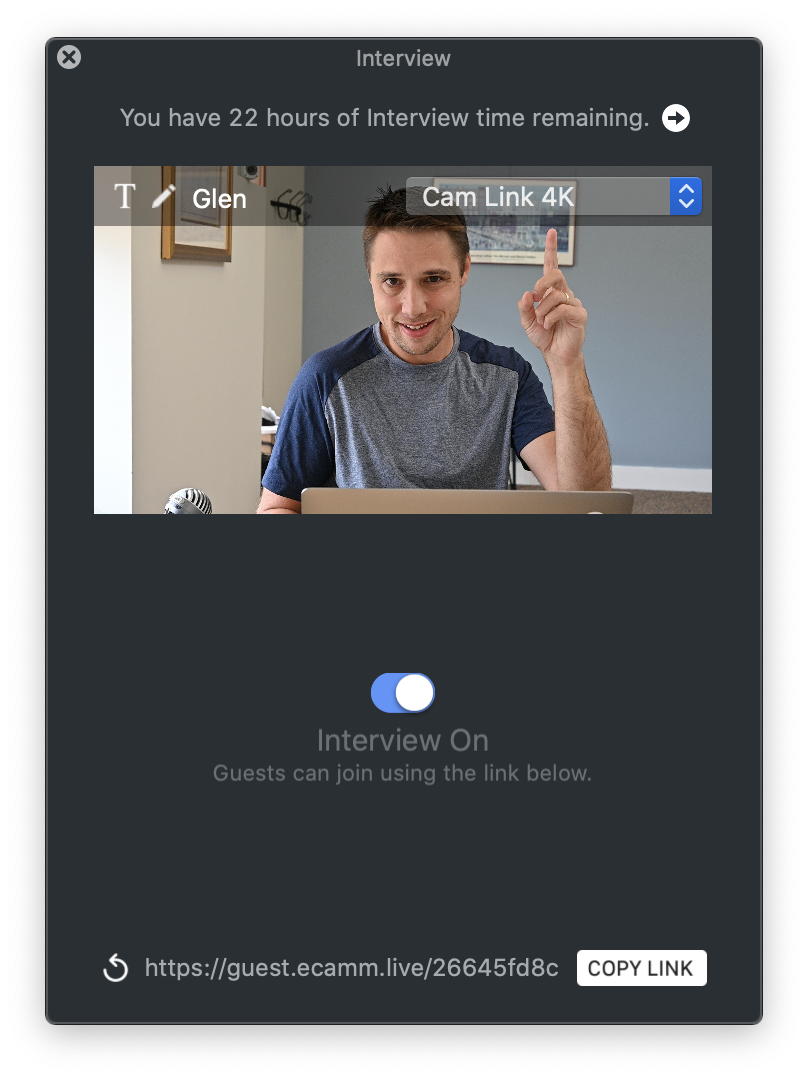
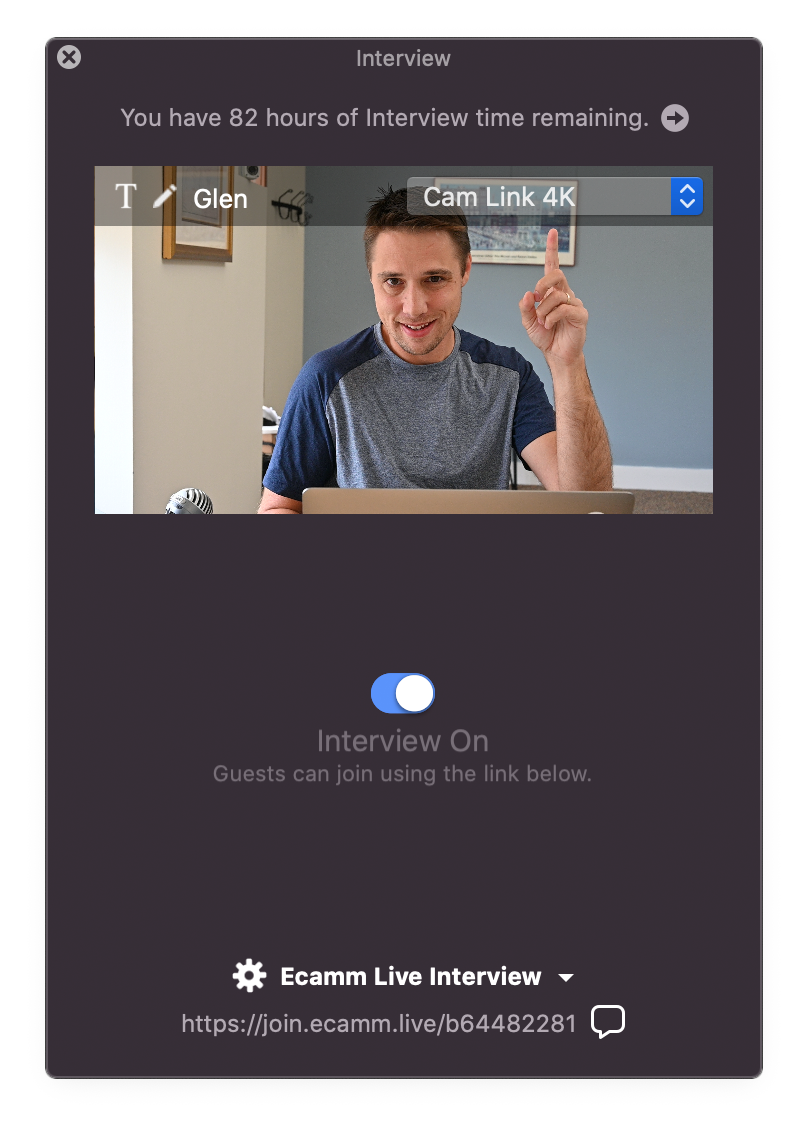
3.9

diff --git a/docs/_ecamm-live-manual/008-interview-mode.md b/docs/_ecamm-live-manual/008-interview-mode.md
@@ -32,27 +32,27 @@ Interviews are controlled using Ecamm Live's Interview window. If you don't see 
 
 If Interview Mode is turned off, turn it on using the blue switch.
 
-### The Host Camera
+#### The Host Camera
 
 At the top of the Interview window, you'll see your host camera. Use the dropdown menu to choose a different camera if needed. If no cameras are listed, ensure that you have the desired camera in Ecamm Live's Camera Switcher. (In the <samp>Camera</samp> menu at the top of the screen, check the <samp>Include in Switcher</samp> sub-menu.)
 
 Your name will be shown at the top of the host camera. To change the name, click the {% inlineicon settings 10 inverted %}pencil icon{% endinlineicon %} button or double-click on your name.
 
-### The Guest Link
+#### The Guest Link
 
-At the bottom of the Interview window, you'll see your invitation link. Send this link to your guests to allow them to join your broadcast. Click the <samp>Copy Link</samp> button to copy the link to your Mac's clipboard. 
+At the bottom of the Interview window, you'll see your invitation link. Send this link to your guests to allow them to join your broadcast. Click the link to copy it to your Mac's clipboard. 
 
-The link is unique to your account and will remain the same unless you change it. To change the link, click the {% inlineicon refresh 15 inverted %}change link{% endinlineicon %} button. This will create a new link code, and the old link will stop working.
+The link is unique to your account and will remain the same unless you change it. The link can be changed in the [Interview Customization window](#customizing-your-interview-page). Once changed, a new link code, and the old link will stop working.
 
 Send your guests this link in advance of your broadcast. Guests will be able to join using this link at any time.
 
 ## Inviting Guests
 
-### Preparing Your Guests
+#### Preparing Your Guests
 
 We recommend having your guests join well in advance for a test call. This will allow you to ensure that the guests have a sufficient computer, web browser, camera, and microphone, and a suitable internet connection.
 
-### When Guests Join
+#### When Guests Join
 
 When guests click your invitation link, their web browser will prompt them to allow the Ecamm website to access their camera and microphone.
 
@@ -71,7 +71,7 @@ Once you have accepted the incoming call, the guest will show up below the host 
 
 Each guest also has a volume level slider, which can be used to adjust the guest's volume as needed.  Guest can also be muted and unmuted by clicking the {% inlineicon speaker3 15 inverted %}speaker{% endinlineicon %} icon just to the left of the volume slider.
 
-### Disconnecting a Guest
+#### Disconnecting a Guest
 
 Disconnect a guest by clicking the {% inlineicon decline 15 %}red X{% endinlineicon %} button.
 
@@ -144,6 +144,77 @@ When Ecamm Live detects that both your microphone and the Interview guest microp
 
 When in this mode, the host can determine if the guest's program audio is automatically lowered, [using a checkbox in the Interview preferences](#lower-music-and-movie-sound-for-guests-when-in-off-air-audio-mode).  
 
+## Guest Private Chat
+
+The Interview host and guests can chat using a text chat interface before and during the a broadcast or recording. Open the Interview Chat window by clicking the chat icon at the bottom of the Interview window. A red dot on the icon indicates that there are unread chat messages.
+
+![Figure\: Interview Chat Window](/assets/img/chatdot.png "Interview Chat Indicator"){:width="414"}
+
+The Interview Chat window shows all sent and received chat messages. To send a message, enter it into the <samp>Send a message...</samp> field at the bottom of the chat window and press return. 
+
+Interview Chat can be enabled or disabled in the [Interview Customization window](#customizing-your-interview-page).
+
+![Figure\: Interview Chat Window](/assets/img/chatwindow.png "Interview Chat Window"){:width="346"}
+
+## Customizing Your Interview Page
+
+The Interview page that your guests will see can be customized. A page title and logo can be added to match you broadcast's brand, and various features can be enabled based on the type of guest interaction desired.
+
+You can create an unlimited number of customized Interview pages, and switch between them as needed. For example, if you produce two different shows, you may wish to have different customizations for each show, such as a different logo. Each Interview page has its own unique guest link.
+
+To add a new customized Interview page, or switch between customized Interview settings, use the popup menu at the bottom of the Interview window.
+
+![Figure\: Interview Menu](/assets/img/interviewmenu.png "The Interview Menu"){:width="419px"}
+
+The currently selected Interview page can be customized by clicking the {% inlineicon interviewgear 15 inverted %}Gear{% endinlineicon %} icon at the bottom of the Interview window.
+
+![Figure\: Customizing Your Interview Page](/assets/img/showgear.png "The Interview Window Gear Button"){:width="426"}
+
+![Figure\: Customizing Your Interview Page](/assets/img/customize.png "The Interview Customization Window"){:width="700px"}
+
+#### Page Title
+
+The Interview Page's title will show up when the link is shared via a messaging app or linked in a social media platform or bookmarked in a web browser.
+
+#### Light Mode Logo and Dark Mode Logo
+
+The logo in the bottom corner of the Interview page can be customized. A light mode and dark mode version of your logo should be provided. If no logo is provided, an Ecamm logo will be used instead. 
+
+#### Open Graph Image
+
+The Interview Page's Open Graph Image will show up when the link is shared via a messaging app or linked in a social media platform. See below for an example of how the Page Title and Open Graph Image will show up when sending the guest link in a chat app such as Facebook Messenger. 
+
+![Figure\: An Interview Link Sent Via Facebook Messenger](/assets/img/messenger.jpg "Link Example"){:width="350px"}
+
+If no custom Open Graph Image is provided, a default Ecamm Interview image will be used instead. 
+
+#### Guest Link Domain
+
+Choose from 14 domain names for your Interview link.
+
+#### Default To Dark Mode
+
+Guests have the ability to choose a light mode or dark mode appearance. The checkbox will determine the default value for new guests.
+
+#### Allow Private Chat
+
+You may wish to enable or disable the text chat sidebar.
+
+#### Show Viewer Comments
+
+Live viewer comments are shown to the guests during a live broadcast to Facebook, YouTube, Restream, or Twitch. You may wish to show or hide the live comments sidebar.
+
+#### Show Viewer Count
+
+The total concurrent viewer count is shown to the guests during a live broadcast. You may wish to show or hide this.
+
+#### Turn Off Audio Processing for Guests
+
+Check this checkbox if your guests will be playing music. The guest microphone will have audio processing disabled, use higher bitrate, and a stereo option will be offered in the guest's audio settings. 
+
+Note that since the guest's echo cancellation will be disabled, headphones must be used on the guest side. 
+Chrome browser and a desktop computer is required for this feature.
+
 ## Interview Preferences
 
 Ecamm Live's preferences window has several options for Interview mode.
@@ -161,21 +232,6 @@ When a guest joins, this will bypass the need to click the answer/decline button
 #### Send Guest To Greenroom
 
 By default, guests will be in a greenroom upon joining. (Their audio will not be in the broadcast.) Uncheck this checkbox to bypass the greenroom.
-
-#### Turn Off Audio Processing for Guests
-
-Check this checkbox if your guests will be playing music. The guest microphone will have audio processing disabled, use higher bitrate, and a stereo option will be offered in the guest's audio settings. 
-
-Note that since the guest's echo cancellation will be disabled, headphones must be used on the guest side. 
-Chrome browser and a desktop computer is required for this feature.
-
-#### Guest Web Interface Defaults To Dark Mode
-
-Guests have the ability to choose a light mode or dark mode appearance. The checkbox will determine the default value for new guests.
-
-#### Guest Web Interface Displays Comments & Viewer Count
-
-Guests can view the broadcasts viewer count and comment feed on the right-hand side of the screen. Uncheck this checkbox to hide this tab from guests.
 
 #### Lower Music and Movie Sound For Guests When in Off-Air Audio Mode
 

diff --git a/docs/_ecamm-live-manual/003-camera-mode.md b/docs/_ecamm-live-manual/003-camera-mode.md
@@ -32,13 +32,21 @@ Other HDMI encoders, such as the [Elgato Cam Link](https://amzn.to/2WYElej) typi
 
 Ecamm Live will automatically detect [Newtek NDI®](https://www.newtek.com/ndi/) input sources, such as the [NDICam iOS app](http://www.sienna-tv.com/ndi/ndicam.html). NDI sources will show up as camera in Ecamm Live's camera list, and as a microphone in Ecamm Live's microphone list.
 
-#### EpocCam Camera for iPhone and iPad
+#### RTSP Cameras (Also called Network Cameras or IP Cameras)
 
-Customers also use the third-party iOS app, _EpocCam_ by [Kinoni](http://www.kinoni.com/) to use their iOS device as a camera.
+Network cameras supporting H.264 and H.265 video encoding can be added to Ecamm Live by picking <samp>Manage Network Cameras</samp> from the <samp>Camera</samp> menu at the top of the screen. Click the + button to add a new network camera. Enter a display name for the camera and the camera's RTSP URL. If a username and password is required, include that in the URL, using this format:
+
+rtsp://user:password@address:port/path
+
+![Figure\: Adding a Network Camera](/assets/img/sanctuary.png "Adding a Network Camera"){:width="657"}
+
+The <samp>Test Camera</samp> button can be used to test the connection to the camera. 
+
+Note that network camera audio is not supported.
 
 #### Broadcasting Your iOS Device's Screen
 
-Your iPhone or iPad screen can also become a video source, simply by connecting the device via USB cable. Ensure that the device is trusted by the Mac, and that iTunes recognizes the device. It will then automatically show up as a video source and audio source in Ecamm Live.
+Your iPhone or iPad screen can also become a video source, simply by connecting the device via USB cable. Ensure that the device is recognized in the Finder sidebar and that is trusted by the Mac. It will then automatically show up as a video source and audio source in Ecamm Live.
 
 #### 360° Cameras
 
@@ -108,6 +116,8 @@ There are a few other options in the Green Screen settings:
 
 In the Camera Effects window, just below the Green Screen settings, you'll see controls for adding digital zoom to your camera source. Zoom in or out by checking the <samp>Zoom & Pan</samp> checkbox and adjusting the zoom slider. Once you've adjusted the zoom, the zoom area can be adjusted left, right up or down by dragging in the small video preview area just below the slider.
 
+Hold down the <kbd>shift</kbd> key while adjusting the pan to constrain the axis.
+
 Zooming in can be useful for fine-tuning how a shot is framed, for example to crop out the edges of a green screen.
 
 Zooming out can be used to better position a video source in an [Overlay](../006-using-overlays) frame.
@@ -154,6 +164,15 @@ Some cameras may offer more than one resolution option. Check this checkbox to u
 #### Use Manual Focus
 
 Some cameras, including most Logitech webcams, offer a manual focus option. Check this checkbox and adjust the slider to adjust the focus manually. If you do not see this checkbox, Ecamm Live is not able to adjust the focus level for the selected input device. 
+
+#### Rotate
+
+Click this button to rotate the camera in 90° increments.
+
+#### Apply To All Scenes
+
+Click this button to apply the current Scene-based Camera Effects to all Scenes. This maybe useful if you want to apply the same Green Screen backdrop to all Scenes for example.
+
 
 #### Set Default Camera
 

diff --git a/docs/_ecamm-live-manual/011-broadcast-to-other-services.md b/docs/_ecamm-live-manual/011-broadcast-to-other-services.md
@@ -39,7 +39,7 @@ If you’ve never used the YouTube feature, you’ll be asked to sign in when yo
 Ecamm Live will stay logged into LinkedIn unless you manually log out, or if you remove Ecamm Live from [your LinkedIn Permitted Services](https://www.linkedin.com/psettings/permitted-services).
 If you’d like to log out of LinkedIn, with <samp>LinkedIn</samp> selected in the <samp>Destination</samp> menu, go to the <samp>Ecamm Live</samp> menu at the top of your display, and select <samp>Log Out LinkedIn</samp>. In the Main Window, we’ll ask to confirm before logging you out. Click <samp>Log Out</samp> and it will be so.
 
-## Broadcasting to Twitch, Restream.io or Switchboard
+## Broadcasting to Twitch, Twitter, Restream.io or Switchboard
 
 Broadcasting to [Twitch](https://twitch.tv), [Restream.io](https://restream.io) or [Switchboard](https://switchboard.live) starts in the <samp>Destination</samp> menu, in the bottom right of the Main Window. Select the platform. The <samp class="blue">Login</samp> button will appear at the bottom of the Main Window.
 
@@ -49,14 +49,17 @@ Once you’re logged in, you can dive straight in by clicking <samp class="blue"
 
 #### Broadcast Options
 
-There is just one option for Twitch broadcasts. In the bottom left of the Main Window, you’ll see the words <samp>Enter a description…</samp> Click the words to enter the description that will display along with your live stream.
+For Twitter, Twitch and LinkedIn, in the bottom left of the Main Window, you’ll see the words <samp>Enter a description…</samp> Click the words to enter the description that will display along with your live stream.
 
+For Twitch and LinkedIn, you'll find an option to select your closest ingest server in Ecamm Live's preferences window.
+
+Likewise, for Twitter you'll find an option to activate a low-latency mode.
 
 ##### View Viewer Chat Comments
 
 During Twitch or Restream.io broadcasts, any chat messages your audience makes on your live broadcast will be displayed in the Comments and Reactions window. Additionally, at the top of the Main Window we'll display a live count of viewers, visible only to you. 
 
-Switchboard does not support viewer count or comments.
+Switchboard and Twitter do not support viewer count or comments.
 
 #### Ending a Broadcast
 
@@ -71,7 +74,7 @@ After clicking <samp class="blue">Finish</samp> we’ll present you with a messa
 <samp>{% inlineicon yt 15 inverted %}Send To YouTube Button{% endinlineicon %} Send To YouTube</samp> - click to send the local video file to your YouTube Account.
 If you’ve never used the YouTube feature, you’ll be asked to sign in when you press the <samp>Send To YouTube</samp> button. You’ll then be presented with a form to add information about your upload, and set its visibility options. Once you’ve uploaded, you can close the dialog box or you can click to <samp>Go To YouTube</samp> to view your upload.
 
-#### Logging out of Twitch, Restream.io or Switchboard
+#### Logging out of Twitch, Twitter, Restream.io or Switchboard
 
 Ecamm Live will stay logged in unless you manually log out, or if you remove Ecamm Live from the platform's connected apps. If you’d like to log out, with Destination selected in the <samp>Destination</samp> menu, go to the <samp>Ecamm Live</samp> menu at the top of your display, and select <samp>Log Out</samp>.
 

diff --git a/docs/_ecamm-live-manual/002-your-first-time-around-with-ecamm-live.md b/docs/_ecamm-live-manual/002-your-first-time-around-with-ecamm-live.md
@@ -17,7 +17,7 @@ The smaller windows are for control of [Sound Levels](../013-adjusting-sound-lev
 
 At the center bottom of the Main Window is a blue <samp class="blue">Login</samp> button, which will allow us to connect you to the currently selected streaming platform.
 
-Note: If you’re not going to use Ecamm Live with Facebook, YouTube, Twitch, LinkedIn, Restream or Switchboard, logging in is optional. You can still [record to your Mac](../012-recording-your-broadcasts/#record-only-mode), or stream to services that use [RTMP](../011-broadcast-to-other-services/#using-a-stream-key).
+Note: If you’re not going to use Ecamm Live with Facebook, YouTube, Twitter, Twitch, LinkedIn, Restream or Switchboard, logging in is optional. You can still [record to your Mac](../012-recording-your-broadcasts/#record-only-mode), or stream to services that use [RTMP](../011-broadcast-to-other-services/#using-a-stream-key).
 {:.notice--info}
 
 [![Figure\: Annotated Main Window with tools labeled](/assets/img/main-window-annotated.png "Click for full-size image.")
@@ -63,7 +63,7 @@ The bottom right corner holds menus which control where your broadcasts go. The 
 
 If you've picked Facebook or YouTube as your Destination, you’ll see various options of where to broadcast. You can choose who can view your broadcast within Facebook or YouTube, and control when to broadcast.
 
-If you select <samp>Custom Stream Key</samp>, a sheet will appear with the settings required to [stream to services other than Facebook, YouTube, Twitch, LinkedIn, Restream.io, and Switchboard](../011-broadcast-to-other-services/#using-a-stream-key).
+If you select <samp>Custom Stream Key</samp>, a sheet will appear with the settings required to [stream to services other than Facebook, YouTube, Twitter, Twitch, LinkedIn, Restream.io, and Switchboard](../011-broadcast-to-other-services/#using-a-stream-key).
 
 Lastly, if you select <samp>Record Only</samp>, all the other options fade away, and you’re now set to [capture a recording only to your Mac.](../012-recording-your-broadcasts/#record-only-mode)
 

diff --git a/docs/_ecamm-live-manual/017-other-options.md b/docs/_ecamm-live-manual/017-other-options.md
@@ -100,7 +100,7 @@ Select the format for Ecamm Live's local recordings. The default is .MOV format,
 
 #### Default Transition
 
-Choose a visual effect when changing Source Modes or Scenes. Select <samp>No Transition</samp>, <samp>Cross Dissolve</samp>, <samp>White Flash</samp>, <samp>Swipe</samp>, <samp>Cross Zoom</samp>, <samp>Light Rays</samp>, <samp>Ripple</samp> and <samp>Copy Machine</samp> transition effects. A Pro-level plan is required for <samp>Cross Zoom</samp>, <samp>Light Rays</samp>, <samp>Ripple</samp> and <samp>Copy Machine</samp> effects.
+Choose a visual effect when changing Source Modes or Scenes. Select <samp>No Transition</samp>, <samp>Cross Dissolve</samp>,  <samp>Slow Cross Dissolve</samp>,  <samp>Slower Cross Dissolve</samp>, <samp>White Flash</samp>, <samp>Swipe</samp>, <samp>Cross Zoom</samp>, <samp>Light Rays</samp>, <samp>Ripple</samp> and <samp>Copy Machine</samp> transition effects. A Pro-level plan is required for <samp>Cross Zoom</samp>, <samp>Light Rays</samp>, <samp>Ripple</samp> and <samp>Copy Machine</samp> effects.
 
 This transition effect can also be set on a per-Scene basis by selecting a transition in the <samp>Scene Optons</samp> section of the <samp>Options</samp> menu.
 

diff --git a/docs/_ecamm-live-manual/001-welcome.md b/docs/_ecamm-live-manual/001-welcome.md
@@ -6,7 +6,7 @@ title: Ecamm Live Manual
 
 ## What can Ecamm Live do?
 
-Ecamm Live is a macOS app designed to give you tremendous control over live streaming, with special capabilities for Facebook Live, YouTube Live, LinkedIn, Twitch, Restream.io and Switchboard Live. Ecamm Live can broadcast to any streaming service that uses *RTMP* streaming.
+Ecamm Live is a macOS app designed to give you tremendous control over live streaming, with special capabilities for Facebook Live, YouTube Live, Twitter, LinkedIn, Twitch, Restream.io and Switchboard Live. Ecamm Live can broadcast to any streaming service that uses *RTMP* streaming.
 
 Why would you choose to use a Mac app to live stream, when you can stream straight from your web browser, or mobile device? Because Ecamm Live gives you superpowers…
 * **Add text, scrolling tickers, images, countdowns, PDFs and animations to your broadcast as overlays** , on-the-fly, or build them ahead of time.
